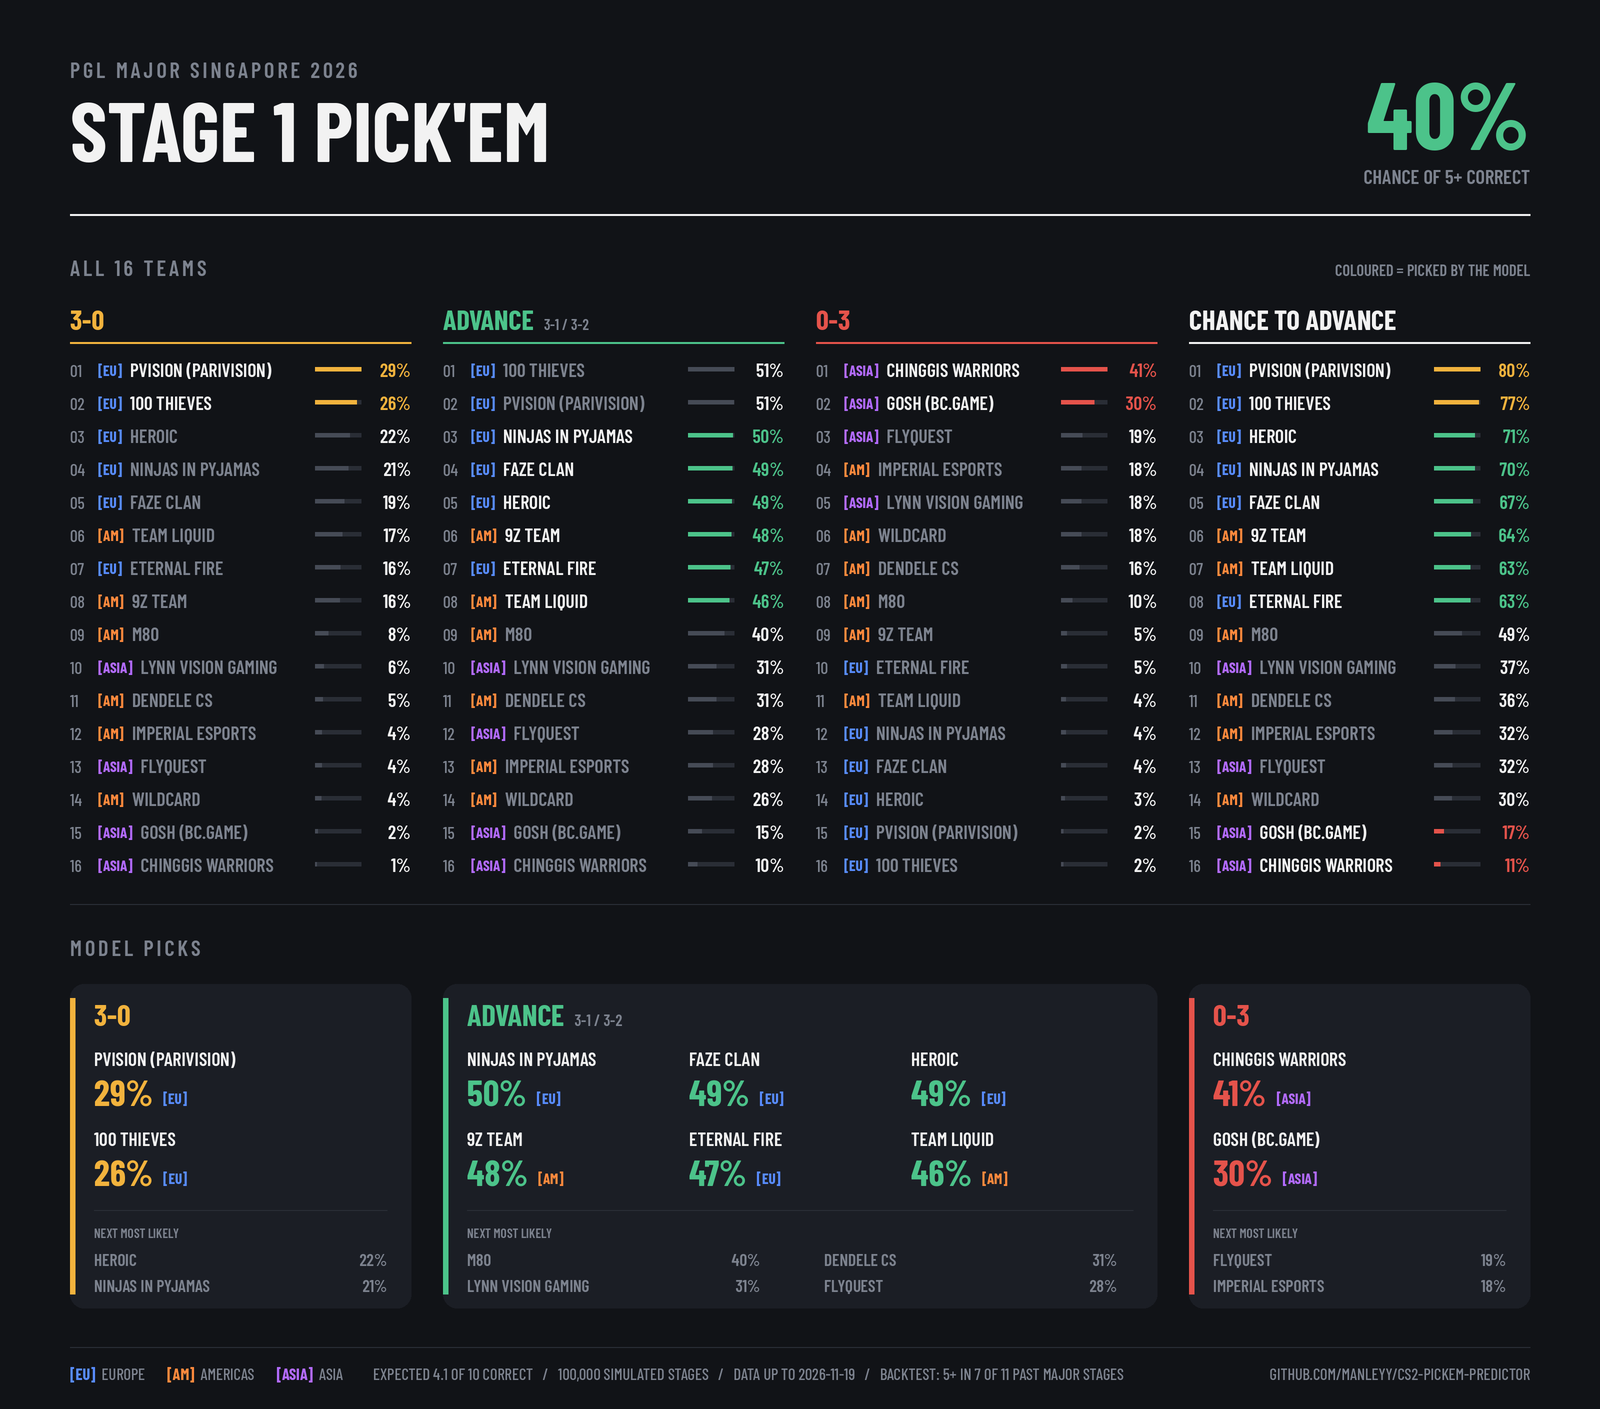
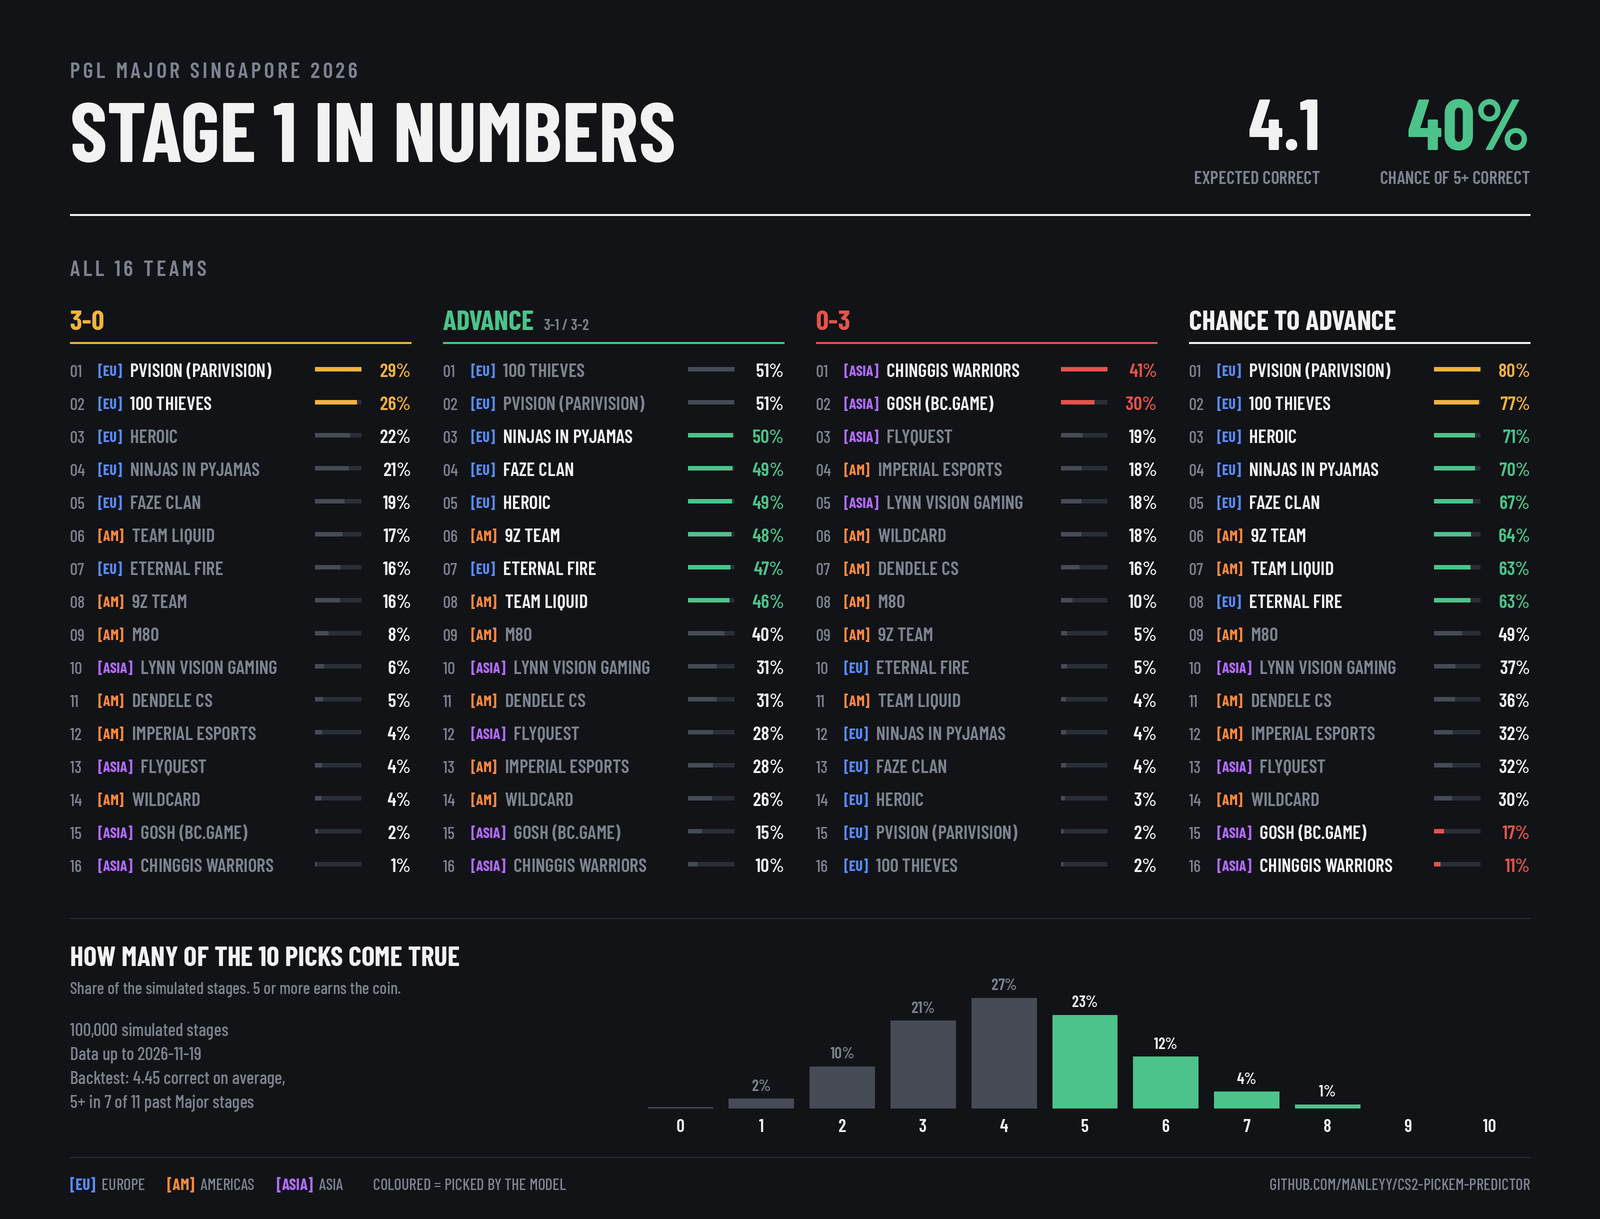
Breakdown image: add distribution of correct picks, drop pick boxes

diff --git a/src/pickem/breakdown.py b/src/pickem/breakdown.py
@@ -2,8 +2,8 @@
 
     python -m pickem board            # redraws board.png and breakdown.png
 
-Top: every team ranked by chance of 3-0, advancing 3-1/3-2, 0-3 and advancing at all.
-Bottom: the model's picks with the next most likely teams for each slot.
+Every team ranked by chance of 3-0, advancing 3-1/3-2, 0-3 and advancing at all,
+then the distribution of how many of the 10 picks come true.
 Teams carry a coloured [EU] / [AM] / [ASIA] tag for their VRS region.
 Uses the bundled Barlow Condensed font (SIL Open Font License, see fonts/OFL.txt).
 """
@@ -126,76 +126,29 @@ def tag(c, x, region, xx, y, size=15):
 
 
 def draw_breakdown(predictions: Path, out_png: Path):
-    """All 16 teams ranked for 3-0 / advance / 0-3 / chance to advance, then the model picks."""
+    """All 16 teams ranked for 3-0 / advance / 0-3 / chance to advance, then how many picks hit."""
     global W, H
     W, H = 1600, 1700
     x = Ctx(predictions)
     rec, slot_of, name = x.rec, x.slot_of, x.name
     c = Canvas()
-    draw_header(c, x, "PICK'EM")
-
-    # ---- ticket: three boxes side by side at the bottom ----
-    def next_best(key):
-        rest = sorted((r for r in rec.values() if slot_of.get(r["team"]) != key), key=lambda r: -r[key])[:2]
-        return [(r["team"], r[key]) for r in rest]
-
-    def next_adv():
-        rest = sorted((r for r in rec.values() if r["team"] not in slot_of),
-                      key=lambda r: -(r["3-1"] + r["3-2"]))[:4]
-        return [(r["team"], r["3-1"] + r["3-2"]) for r in rest]
-
-    PAD, HEAD, ROW = 24, 60, 80
-    BH = HEAD + 2 * ROW + 104
-
-    def pick(cx, cy, cw, t, pr, col):
-        nm = name(t).upper()
-        size = 19
-        while size > 14 and c.width(nm, size, "SemiBold") > cw - 10:
-            size -= 1
-        c.text(cx, cy + 22, nm, size, TEXT, "SemiBold")
-        e = c.width(f"{100 * pr:.0f}%", 36) + 10
-        c.text(cx, cy + 62, f"{100 * pr:.0f}%", 36, col)
-        tag(c, x, x.region.get(t, ""), cx + e, cy + 60)
-
-    def box(x0, x1, y0, label, sub, teams, probs, col, runners, ncol, run_w):
-        c.rect(x0, y0, x1, y0 + BH, PANEL, 14)
-        c.bar(x0, x0 + 5, y0 + 14, BH - 28, col)
-        c.text(x0 + PAD, y0 + 42, label, 30, col)
-        if sub:
-            c.text(x0 + PAD + c.width(label, 30) + 10, y0 + 42, sub, 16, MUTED, "SemiBold")
-        cw = (x1 - x0 - 2 * PAD) / ncol
-        for i, (t, pr) in enumerate(zip(teams, probs)):
-            rr, k = divmod(i, ncol)
-            pick(x0 + PAD + k * cw, y0 + HEAD + rr * ROW, cw, t, pr, col)
-        ny = y0 + HEAD + 2 * ROW + 6
-        c.hline(x0 + PAD, x1 - PAD, ny, RULE)
-        c.text(x0 + PAD, ny + 28, "NEXT MOST LIKELY", 13, MUTED, "SemiBold")
-        for k, (t, pr) in enumerate(runners):
-            blk, row = divmod(k, 2)  # two per column, extra columns to the right
-            rx0 = x0 + PAD + blk * (run_w + 64)
-            ry = ny + 56 + row * 26
-            c.text(rx0, ry, name(t).upper(), 17, MUTED, "SemiBold")
-            c.text(rx0 + run_w, ry, f"{100 * pr:.0f}%", 17, MUTED, "SemiBold", anchor="rs")
-
-    def draw_ticket_row(y0):
-        g = 32
-        cw4 = (R - L - 3 * g) / 4
-        t30 = x.picks["3-0"]
-        box(L, L + cw4, y0, "3-0", "", t30, [rec[t]["3-0"] for t in t30], GOLD,
-            next_best("3-0"), 1, cw4 - 2 * PAD)
-        adv = sorted(x.picks["advance"], key=lambda t: -(rec[t]["3-1"] + rec[t]["3-2"]))
-        box(L + cw4 + g, L + 3 * cw4 + 2 * g, y0, "ADVANCE", "3-1 / 3-2", adv,
-            [rec[t]["3-1"] + rec[t]["3-2"] for t in adv], GREEN, next_adv(), 3, cw4 - 2 * PAD)
-        t03 = x.picks["0-3"]
-        box(R - cw4, R, y0, "0-3", "", t03, [rec[t]["0-3"] for t in t03], RED,
-            next_best("0-3"), 1, cw4 - 2 * PAD)
-        return y0 + BH
+    p = x.p
+    event, _, stage = p["tournament"].partition(" - ")
+    c.text(L, 78, event.upper(), 22, MUTED, "SemiBold", spacing=3)
+    c.text(L, 162, f"{stage.upper()} IN NUMBERS", 84)
+    xr = R
+    for val, lab in [(f"{100 * p['p_coin']:.0f}%", "CHANCE OF 5+ CORRECT"),
+                     (f"{p['expected_correct']:.1f}", "EXPECTED CORRECT")]:
+        c.text(xr, 150, val, 72, GREEN if "%" in val else TEXT, anchor="rs")
+        c.text(xr, 184, lab, 18, MUTED, "SemiBold", anchor="rs")
+        xr -= max(c.width(val, 72), c.width(lab, 18, "SemiBold")) + 60
+    c.hline(L, R, 214, TEXT, 2)
 
     y = 214
+
     # ---- all 16 teams ----
     top = y + 62
     c.text(L, top, "ALL 16 TEAMS", 22, MUTED, "SemiBold", spacing=3)
-    c.text(R, top, "COLOURED = PICKED BY THE MODEL", 16, MUTED, "SemiBold", anchor="rs")
     top += 54
     gap = 32
     colw = (R - L - 3 * gap) / 4
@@ -238,10 +191,36 @@ def draw_breakdown(predictions: Path, out_png: Path):
     yy = ranked(3, "CHANCE TO ADVANCE", "", lambda r: r["advance"], TEXT,
                 lambda t: t in slot_of, lambda t: slot_col.get(slot_of.get(t), GREY))
 
-    top = yy + 84
-    c.hline(L, R, top - 52, RULE)
-    c.text(L, top, "MODEL PICKS", 22, MUTED, "SemiBold", spacing=3)
-    yy = draw_ticket_row(top + 28)
+    # ---- how many of the 10 picks come true ----
+    y0 = yy + 46
+    c.hline(L, R, y0, RULE)
+    c.text(L, y0 + 48, "HOW MANY OF THE 10 PICKS COME TRUE", 28)
+    c.text(L, y0 + 76, "Share of the simulated stages. 5 or more earns the coin.", 17, MUTED,
+           "Medium")
+    bt = _backtest_summary(Path(out_png).parent)
+    lines = [f"{p['n_sims']:,} simulated stages", f"Data up to {p['model'].get('data_until', '?')}"]
+    if bt:
+        n, avg, five = bt
+        lines += [f"Backtest: {avg:.2f} correct on average,",
+                  f"5+ in {five} of {n} past Major stages"]
+    for k, ln in enumerate(lines):
+        c.text(L, y0 + 118 + k * 24, ln, 18, MUTED, "Medium")
+    dist = p.get("correct_distribution") or []
+    cx0, cx1 = 640, R
+    base = y0 + 190
+    bw = (cx1 - cx0) / max(len(dist), 1)
+    mxd = max(dist) if dist else 1
+    for i, v in enumerate(dist):
+        bx = cx0 + i * bw
+        hgt = 110 * v / mxd
+        col = GREEN if i >= 5 else GREY
+        if hgt > 0.5:
+            c.bar(bx + 8, bx + bw - 8, base - hgt, hgt, col)
+        if v >= 0.005:
+            c.text(bx + bw / 2, base - hgt - 8, f"{100 * v:.0f}%", 16, TEXT if i >= 5 else MUTED,
+                   "SemiBold", "ms")
+        c.text(bx + bw / 2, base + 24, str(i), 18, TEXT, "SemiBold", "ms")
+    yy = base + 10
 
     # ---- footer with text tags ----
     fy = yy + 72
@@ -252,14 +231,7 @@ def draw_breakdown(predictions: Path, out_png: Path):
         xx = tag(c, x, reg, xx, fy, 16) + 6
         c.text(xx, fy, reg.upper(), 16, MUTED, "Medium")
         xx += c.width(reg.upper(), 16, "Medium") + 22
-    p = x.p
-    bits = [f"EXPECTED {p['expected_correct']:.1f} OF 10 CORRECT",
-            f"{p['n_sims']:,} SIMULATED STAGES",
-            f"DATA UP TO {p['model'].get('data_until', '?')}"]
-    bt = _backtest_summary(Path(out_png).parent)
-    if bt:
-        bits.append(f"BACKTEST: 5+ IN {bt[2]} OF {bt[0]} PAST MAJOR STAGES")
-    c.text(xx + 8, fy, "   /   ".join(bits), 16, MUTED, "Medium")
+    c.text(xx + 8, fy, "COLOURED = PICKED BY THE MODEL", 16, MUTED, "Medium")
     c.text(R, fy, "GITHUB.COM/MANLEYY/CS2-PICKEM-PREDICTOR", 16, MUTED, "Medium", anchor="rs")
     c.img = c.img.crop((0, 0, W * S, H * S))
     c.save(out_png)

diff --git a/README.md b/README.md
@@ -24,8 +24,8 @@ simulated stages with data up to 19 Nov 2026.
 ### Full breakdown
 
 Every team ranked by its chance of going 3-0, advancing 3-1/3-2, going 0-3 and
-advancing at all, plus the next most likely teams behind each pick. Click the
-image to open it at full size.
+advancing at all, plus how many of the 10 picks come true across the simulated
+stages. Click the image to open it at full size.
 
 ![Full breakdown for all 16 teams](output/breakdown.png)
 
@@ -71,7 +71,7 @@ Results go to `output/`:
 | file | what |
 |---|---|
 | `board.png` | the forecast as an image (the picks and every team's chance to advance) |
-| `breakdown.png` | all 16 teams ranked per slot, plus the model picks and next most likely teams |
+| `breakdown.png` | all 16 teams ranked per slot, plus how many of the 10 picks come true |
 | `picks.md` | the 10 picks, round 1 odds, record probabilities, team inputs |
 | `predictions.json` | everything above, machine readable (e.g. for a website) |
 | `record_probabilities.csv` | P(3-0 … 0-3) and P(advance) per team |
